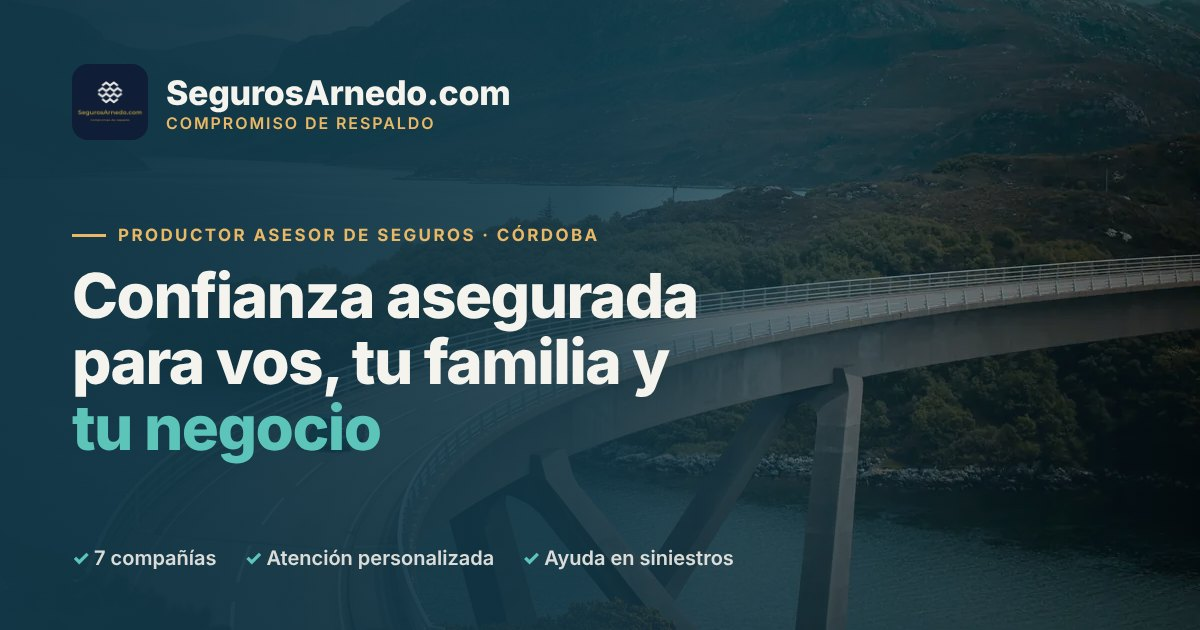
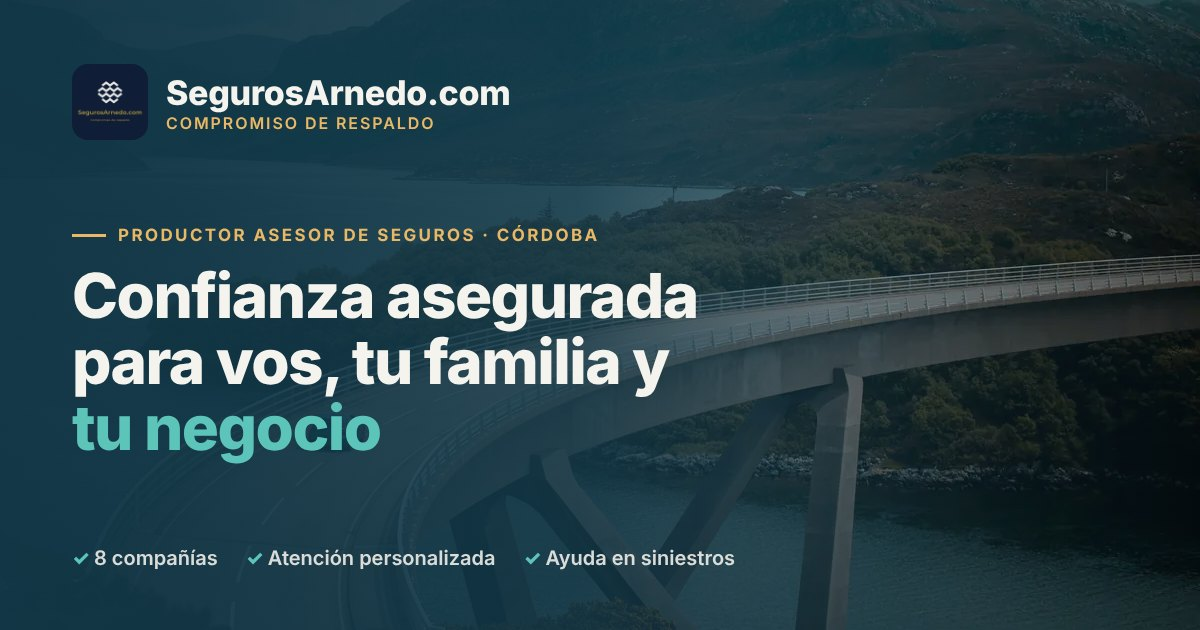
Compañías: se suma Premiar S.A. Compañía de Seguros
- Inicio: logo en la grilla de compañías (8 en total) y textos «8 compañías» / «8 aseguradoras».
- Compañías: ficha de Premiar (especialista en caución) con enlace a premiar.com.ar.
- Organización de Productores: Premiar en la lista para elegir y en la pregunta frecuente.
- llms.txt e imagen para compartir actualizadas.
- Logo provisorio con el nombre (reemplazar por el oficial cuando esté disponible).

Claude-Session: https://claude.ai/code/session_01MLrFoQmDidckPCewxF1xp5

Changed region(s): [[0.2158, 0.8746, 0.6167, 0.9048], [0.0617, 0.8746, 0.185, 0.9048]]

diff --git a/pages/organizacion-de-productores.html b/pages/organizacion-de-productores.html
@@ -34,7 +34,7 @@
   <script>document.documentElement.classList.add("js")</script>
   <script type="application/ld+json">{"@context": "https://schema.org", "@type": "InsuranceAgency", "@id": "https://segurosarnedo.com/#agencia", "name": "SegurosArnedo.com", "alternateName": ["Seguros Arnedo", "JMA Seguros"], "description": "Productor Asesor de Seguros Juan Manuel Arnedo. Asesoramiento y venta integral de seguros para personas y empresas en Córdoba, Argentina.", "url": "https://segurosarnedo.com/", "logo": "https://segurosarnedo.com/img/marca/logo-segurosarnedo-1200.png", "image": "https://segurosarnedo.com/img/web/og-image.jpg", "telephone": "+5493515161257", "email": "juanmanuelarnedo@gmail.com", "address": {"@type": "PostalAddress", "streetAddress": "Fernando Fader 4282", "addressLocality": "Córdoba", "addressRegion": "Córdoba", "addressCountry": "AR"}, "areaServed": [{"@type": "City", "name": "Córdoba"}, {"@type": "AdministrativeArea", "name": "Provincia de Córdoba"}, {"@type": "City", "name": "Villa Allende", "containedInPlace": {"@type": "AdministrativeArea", "name": "Provincia de Córdoba"}}, {"@type": "City", "name": "Mendiolaza", "containedInPlace": {"@type": "AdministrativeArea", "name": "Provincia de Córdoba"}}, {"@type": "City", "name": "Unquillo", "containedInPlace": {"@type": "AdministrativeArea", "name": "Provincia de Córdoba"}}, {"@type": "City", "name": "Río Ceballos", "containedInPlace": {"@type": "AdministrativeArea", "name": "Provincia de Córdoba"}}, {"@type": "City", "name": "La Calera", "containedInPlace": {"@type": "AdministrativeArea", "name": "Provincia de Córdoba"}}, {"@type": "City", "name": "Villa Carlos Paz", "containedInPlace": {"@type": "AdministrativeArea", "name": "Provincia de Córdoba"}}, {"@type": "City", "name": "La Falda", "containedInPlace": {"@type": "AdministrativeArea", "name": "Provincia de Córdoba"}}, {"@type": "Place", "name": "Cerro de las Rosas, Córdoba"}, {"@type": "Place", "name": "Urca, Córdoba"}, {"@type": "Place", "name": "Alberdi, Córdoba"}, {"@type": "Place", "name": "Centro, Córdoba"}], "sameAs": ["https://www.google.com/maps?cid=1705518970572699310", "https://www.instagram.com/segurosarnedo/"], "identifier": {"@type": "PropertyValue", "propertyID": "Matrícula SSN", "value": "86525"}, "openingHoursSpecification": [{"@type": "OpeningHoursSpecification", "dayOfWeek": ["Monday", "Tuesday", "Wednesday", "Thursday", "Friday"], "opens": "09:00", "closes": "18:00"}], "founder": {"@type": "Person", "name": "Juan Manuel Arnedo", "jobTitle": "Productor Asesor de Seguros", "identifier": "Matrícula SSN 86525"}, "knowsAbout": ["Seguro de auto", "Seguro de moto", "Seguro de hogar", "Integral de comercio", "Seguros para empresas", "ART – Aseguradora de Riesgos del Trabajo", "Seguro de caución", "Seguro de responsabilidad civil", "Vida y accidentes personales", "Seguro de retiro", "Asistencia al viajero"], "slogan": "Compromiso de respaldo", "knowsLanguage": "es-AR", "hasOfferCatalog": {"@type": "OfferCatalog", "name": "Seguros que ofrecemos", "itemListElement": [{"@type": "Offer", "itemOffered": {"@type": "Service", "name": "Seguro de auto", "description": "Responsabilidad civil, terceros completo y todo riesgo para autos y pick-ups.", "areaServed": "Provincia de Córdoba, Argentina"}}, {"@type": "Offer", "itemOffered": {"@type": "Service", "name": "Seguro de moto", "description": "Responsabilidad civil, robo e incendio para motos.", "areaServed": "Provincia de Córdoba, Argentina"}}, {"@type": "Offer", "itemOffered": {"@type": "Service", "name": "Seguro de hogar", "description": "Incendio, robo, cristales y responsabilidad civil para viviendas.", "areaServed": "Provincia de Córdoba, Argentina"}}, {"@type": "Offer", "itemOffered": {"@type": "Service", "name": "Integral de comercio", "description": "Cobertura para locales, mercadería y actividad comercial.", "areaServed": "Provincia de Córdoba, Argentina"}}, {"@type": "Offer", "itemOffered": {"@type": "Service", "name": "Seguros para empresas", "description": "Coberturas para pymes y empresas.", "areaServed": "Provincia de Córdoba, Argentina"}}, {"@type": "Offer", "itemOffered": {"@type": "Service", "name": "ART – Aseguradora de Riesgos del Trabajo", "description": "Cobertura de riesgos del trabajo con Federación Patronal, Prevención ART y La Segunda, entre otras.", "areaServed": "Provincia de Córdoba, Argentina"}}, {"@type": "Offer", "itemOffered": {"@type": "Service", "name": "Seguro de caución", "description": "Garantías de alquiler, contratos, obras y obligaciones, con Premiar y ACG.", "areaServed": "Provincia de Córdoba, Argentina"}}, {"@type": "Offer", "itemOffered": {"@type": "Service", "name": "Seguro de responsabilidad civil", "description": "Responsabilidad civil para personas, comercios, profesionales y empresas.", "areaServed": "Provincia de Córdoba, Argentina"}}, {"@type": "Offer", "itemOffered": {"@type": "Service", "name": "Vida y accidentes personales", "description": "Seguros de vida y de accidentes personales.", "areaServed": "Provincia de Córdoba, Argentina"}}, {"@type": "Offer", "itemOffered": {"@type": "Service", "name": "Seguro de retiro", "description": "Ahorro para el retiro.", "areaServed": "Provincia de Córdoba, Argentina"}}, {"@type": "Offer", "itemOffered": {"@type": "Service", "name": "Asistencia al viajero", "description": "Asistencia médica y ante imprevistos en viajes por el país y el exterior.", "areaServed": "Provincia de Córdoba, Argentina"}}]}}</script>
   <script type="application/ld+json">{"@context": "https://schema.org", "@type": "Service", "name": "Organización de productores asesores de seguros", "serviceType": "Organizador de productores de seguros", "description": "Acompañamiento a productores asesores de seguros, recién matriculados o en actividad, para abrir códigos con compañías aseguradoras y sumar compañías a su cartera, con el respaldo de P&T Brokers Asesores de Seguros.", "provider": {"@type": "InsuranceAgency", "@id": "https://segurosarnedo.com/#agencia", "name": "SegurosArnedo.com"}, "areaServed": {"@type": "Country", "name": "Argentina"}, "url": "https://segurosarnedo.com/pages/organizacion-de-productores.html"}</script>
-  <script type="application/ld+json">{"@context": "https://schema.org", "@type": "FAQPage", "mainEntity": [{"@type": "Question", "name": "¿Qué hace un organizador de productores de seguros?", "acceptedAnswer": {"@type": "Answer", "text": "Acompaña a productores asesores de seguros matriculados en la gestión para vincularse con compañías aseguradoras y abrir sus códigos de productor. En Seguros Arnedo lo hacemos con el respaldo y acompañamiento de P&T Brokers Asesores de Seguros."}}, {"@type": "Question", "name": "Me matriculé hace poco, ¿puedo incorporarme?", "acceptedAnswer": {"@type": "Answer", "text": "Sí. Te acompañamos en tus primeros pasos: revisamos tu situación, definimos con qué compañías empezar y gestionamos la apertura de tus códigos."}}, {"@type": "Question", "name": "Ya trabajo como productor, ¿puedo sumar aseguradoras?", "acceptedAnswer": {"@type": "Answer", "text": "Sí. Te ayudamos a gestionar nuevas vinculaciones para ampliar tu cartera y ofrecer más alternativas a tus asegurados, aunque ya trabajes con otras compañías u organizaciones."}}, {"@type": "Question", "name": "¿Con qué compañías se puede gestionar?", "acceptedAnswer": {"@type": "Answer", "text": "Hoy trabajamos con Zurich, La Segunda, Federación Patronal, San Cristóbal, Sancor Seguros, Galicia Seguros y La Mercantil Andina."}}, {"@type": "Question", "name": "¿La apertura del código está garantizada?", "acceptedAnswer": {"@type": "Answer", "text": "No. La aprobación de cada solicitud y la habilitación definitiva del código dependen de los requisitos, la documentación y los procedimientos de cada compañía aseguradora. Te acompañamos durante todo el proceso."}}, {"@type": "Question", "name": "¿Qué necesito para empezar?", "acceptedAnswer": {"@type": "Answer", "text": "Tu matrícula de Productor Asesor de Seguros de la Superintendencia de Seguros de la Nación y tus datos de contacto. La documentación que pida cada compañía te la indicamos durante la gestión."}}]}</script>
+  <script type="application/ld+json">{"@context": "https://schema.org", "@type": "FAQPage", "mainEntity": [{"@type": "Question", "name": "¿Qué hace un organizador de productores de seguros?", "acceptedAnswer": {"@type": "Answer", "text": "Acompaña a productores asesores de seguros matriculados en la gestión para vincularse con compañías aseguradoras y abrir sus códigos de productor. En Seguros Arnedo lo hacemos con el respaldo y acompañamiento de P&T Brokers Asesores de Seguros."}}, {"@type": "Question", "name": "Me matriculé hace poco, ¿puedo incorporarme?", "acceptedAnswer": {"@type": "Answer", "text": "Sí. Te acompañamos en tus primeros pasos: revisamos tu situación, definimos con qué compañías empezar y gestionamos la apertura de tus códigos."}}, {"@type": "Question", "name": "Ya trabajo como productor, ¿puedo sumar aseguradoras?", "acceptedAnswer": {"@type": "Answer", "text": "Sí. Te ayudamos a gestionar nuevas vinculaciones para ampliar tu cartera y ofrecer más alternativas a tus asegurados, aunque ya trabajes con otras compañías u organizaciones."}}, {"@type": "Question", "name": "¿Con qué compañías se puede gestionar?", "acceptedAnswer": {"@type": "Answer", "text": "Hoy trabajamos con Zurich, La Segunda, Federación Patronal, San Cristóbal, Sancor Seguros, Galicia Seguros, La Mercantil Andina y Premiar Seguros."}}, {"@type": "Question", "name": "¿La apertura del código está garantizada?", "acceptedAnswer": {"@type": "Answer", "text": "No. La aprobación de cada solicitud y la habilitación definitiva del código dependen de los requisitos, la documentación y los procedimientos de cada compañía aseguradora. Te acompañamos durante todo el proceso."}}, {"@type": "Question", "name": "¿Qué necesito para empezar?", "acceptedAnswer": {"@type": "Answer", "text": "Tu matrícula de Productor Asesor de Seguros de la Superintendencia de Seguros de la Nación y tus datos de contacto. La documentación que pida cada compañía te la indicamos durante la gestión."}}]}</script>
   <script type="application/ld+json">{"@context": "https://schema.org", "@type": "BreadcrumbList", "itemListElement": [{"@type": "ListItem", "position": 1, "name": "Inicio", "item": "https://segurosarnedo.com/"}, {"@type": "ListItem", "position": 2, "name": "Organización de Productores", "item": "https://segurosarnedo.com/pages/organizacion-de-productores.html"}]}</script>
 </head>
 <body data-page="productores">
@@ -154,7 +154,7 @@
           </details>
           <details>
             <summary><span class="quick-icon"><svg class="icon" aria-hidden="true" focusable="false" stroke="currentColor" fill="none" stroke-width="2" viewBox="0 0 24 24" stroke-linecap="round" stroke-linejoin="round" xmlns="http://www.w3.org/2000/svg"><circle cx="12" cy="12" r="10"></circle><path d="M12 16v-4"></path><path d="M12 8h.01"></path></svg></span>¿Con qué compañías se puede gestionar?</summary>
-            <div class="accordion-body"><p>Hoy trabajamos con Zurich, La Segunda, Federación Patronal, San Cristóbal, Sancor Seguros, Galicia Seguros y La Mercantil Andina.</p></div>
+            <div class="accordion-body"><p>Hoy trabajamos con Zurich, La Segunda, Federación Patronal, San Cristóbal, Sancor Seguros, Galicia Seguros, La Mercantil Andina y Premiar Seguros.</p></div>
           </details>
           <details>
             <summary><span class="quick-icon"><svg class="icon" aria-hidden="true" focusable="false" stroke="currentColor" fill="none" stroke-width="2" viewBox="0 0 24 24" stroke-linecap="round" stroke-linejoin="round" xmlns="http://www.w3.org/2000/svg"><circle cx="12" cy="12" r="10"></circle><path d="M12 16v-4"></path><path d="M12 8h.01"></path></svg></span>¿La apertura del código está garantizada?</summary>

diff --git a/index.html b/index.html
@@ -79,7 +79,7 @@
             <a class="btn btn-light btn-lg" href="https://www.sancristobal.com.ar/pas/p-t-seguros-juan-manuel-arnedo" target="_blank" rel="noopener">Cotizá con San Cristóbal <svg class="icon" aria-hidden="true" focusable="false" stroke="currentColor" fill="none" stroke-width="2" viewBox="0 0 24 24" stroke-linecap="round" stroke-linejoin="round" xmlns="http://www.w3.org/2000/svg"><path d="M15 3h6v6"></path><path d="M10 14 21 3"></path><path d="M18 13v6a2 2 0 0 1-2 2H5a2 2 0 0 1-2-2V8a2 2 0 0 1 2-2h6"></path></svg><span class="visually-hidden"> (se abre en una pestaña nueva)</span></a>
           </div>
           <ul class="trust-list" role="list">
-            <li><svg class="icon" aria-hidden="true" focusable="false" stroke="currentColor" fill="none" stroke-width="2" viewBox="0 0 24 24" stroke-linecap="round" stroke-linejoin="round" xmlns="http://www.w3.org/2000/svg"><path d="M6 22V4a2 2 0 0 1 2-2h8a2 2 0 0 1 2 2v18Z"></path><path d="M6 12H4a2 2 0 0 0-2 2v6a2 2 0 0 0 2 2h2"></path><path d="M18 9h2a2 2 0 0 1 2 2v9a2 2 0 0 1-2 2h-2"></path><path d="M10 6h4"></path><path d="M10 10h4"></path><path d="M10 14h4"></path><path d="M10 18h4"></path></svg>7 compañías aseguradoras</li>
+            <li><svg class="icon" aria-hidden="true" focusable="false" stroke="currentColor" fill="none" stroke-width="2" viewBox="0 0 24 24" stroke-linecap="round" stroke-linejoin="round" xmlns="http://www.w3.org/2000/svg"><path d="M6 22V4a2 2 0 0 1 2-2h8a2 2 0 0 1 2 2v18Z"></path><path d="M6 12H4a2 2 0 0 0-2 2v6a2 2 0 0 0 2 2h2"></path><path d="M18 9h2a2 2 0 0 1 2 2v9a2 2 0 0 1-2 2h-2"></path><path d="M10 6h4"></path><path d="M10 10h4"></path><path d="M10 14h4"></path><path d="M10 18h4"></path></svg>8 compañías aseguradoras</li>
             <li><svg class="icon" aria-hidden="true" focusable="false" stroke="currentColor" fill="none" stroke-width="2" viewBox="0 0 24 24" stroke-linecap="round" stroke-linejoin="round" xmlns="http://www.w3.org/2000/svg"><circle cx="12" cy="8" r="5"></circle><path d="M20 21a8 8 0 0 0-16 0"></path></svg>Atención personalizada</li>
             <li><svg class="icon" aria-hidden="true" focusable="false" stroke="currentColor" fill="none" stroke-width="2" viewBox="0 0 24 24" stroke-linecap="round" stroke-linejoin="round" xmlns="http://www.w3.org/2000/svg"><path d="M20 13c0 5-3.5 7.5-7.66 8.95a1 1 0 0 1-.67-.01C7.5 20.5 4 18 4 13V6a1 1 0 0 1 1-1c2 0 4.5-1.2 6.24-2.72a1.17 1.17 0 0 1 1.52 0C14.51 3.81 17 5 19 5a1 1 0 0 1 1 1z"></path><path d="m9 12 2 2 4-4"></path></svg>Acompañamiento en siniestros</li>
           </ul>
@@ -244,7 +244,7 @@
           <ul class="feature-list" role="list">
             <li><svg class="icon" aria-hidden="true" focusable="false" stroke="currentColor" fill="none" stroke-width="2" viewBox="0 0 24 24" stroke-linecap="round" stroke-linejoin="round" xmlns="http://www.w3.org/2000/svg"><circle cx="12" cy="8" r="5"></circle><path d="M20 21a8 8 0 0 0-16 0"></path></svg><div><strong>Atención personalizada</strong><span>Hablás siempre con tu asesor, no con un call center.</span></div></li>
             <li><svg class="icon" aria-hidden="true" focusable="false" stroke="currentColor" fill="none" stroke-width="2" viewBox="0 0 24 24" stroke-linecap="round" stroke-linejoin="round" xmlns="http://www.w3.org/2000/svg"><path d="m11 17 2 2a1 1 0 1 0 3-3"></path><path d="m14 14 2.5 2.5a1 1 0 1 0 3-3l-3.88-3.88a3 3 0 0 0-4.24 0l-.88.88a1 1 0 1 1-3-3l2.81-2.81a5.79 5.79 0 0 1 7.06-.87l.47.28a2 2 0 0 0 1.42.25L21 4"></path><path d="m21 3 1 11h-2"></path><path d="M3 3 2 14l6.5 6.5a1 1 0 1 0 3-3"></path><path d="M3 4h8"></path></svg><div><strong>Asesoramiento integral</strong><span>Para personas, familias, comercios y empresas.</span></div></li>
-            <li><svg class="icon" aria-hidden="true" focusable="false" stroke="currentColor" fill="none" stroke-width="2" viewBox="0 0 24 24" stroke-linecap="round" stroke-linejoin="round" xmlns="http://www.w3.org/2000/svg"><path d="M6 22V4a2 2 0 0 1 2-2h8a2 2 0 0 1 2 2v18Z"></path><path d="M6 12H4a2 2 0 0 0-2 2v6a2 2 0 0 0 2 2h2"></path><path d="M18 9h2a2 2 0 0 1 2 2v9a2 2 0 0 1-2 2h-2"></path><path d="M10 6h4"></path><path d="M10 10h4"></path><path d="M10 14h4"></path><path d="M10 18h4"></path></svg><div><strong>Varias compañías</strong><span>Opciones de 7 aseguradoras para comparar.</span></div></li>
+            <li><svg class="icon" aria-hidden="true" focusable="false" stroke="currentColor" fill="none" stroke-width="2" viewBox="0 0 24 24" stroke-linecap="round" stroke-linejoin="round" xmlns="http://www.w3.org/2000/svg"><path d="M6 22V4a2 2 0 0 1 2-2h8a2 2 0 0 1 2 2v18Z"></path><path d="M6 12H4a2 2 0 0 0-2 2v6a2 2 0 0 0 2 2h2"></path><path d="M18 9h2a2 2 0 0 1 2 2v9a2 2 0 0 1-2 2h-2"></path><path d="M10 6h4"></path><path d="M10 10h4"></path><path d="M10 14h4"></path><path d="M10 18h4"></path></svg><div><strong>Varias compañías</strong><span>Opciones de 8 aseguradoras para comparar.</span></div></li>
             <li><svg class="icon" aria-hidden="true" focusable="false" stroke="currentColor" fill="none" stroke-width="2" viewBox="0 0 24 24" stroke-linecap="round" stroke-linejoin="round" xmlns="http://www.w3.org/2000/svg"><path d="M20 13c0 5-3.5 7.5-7.66 8.95a1 1 0 0 1-.67-.01C7.5 20.5 4 18 4 13V6a1 1 0 0 1 1-1c2 0 4.5-1.2 6.24-2.72a1.17 1.17 0 0 1 1.52 0C14.51 3.81 17 5 19 5a1 1 0 0 1 1 1z"></path><path d="m9 12 2 2 4-4"></path></svg><div><strong>Compromiso con el cliente</strong><span>Te orientamos también cuando tenés un siniestro.</span></div></li>
           </ul>
         </div>
@@ -280,6 +280,7 @@
           <li><a class="logo-tile" style="background-color:#be0165" href="./pages/companias.html#sancor" aria-label="Sancor Seguros"><img src="./img/web/logo-sancor.webp" alt="Logo de Sancor Seguros" width="360" height="270" loading="lazy" decoding="async"></a></li>
           <li><a class="logo-tile" style="background-color:#f2692a" href="./pages/companias.html#galicia" aria-label="Galicia Seguros"><img src="./img/web/logo-galicia.webp" alt="Logo de Galicia Seguros" width="360" height="270" loading="lazy" decoding="async"></a></li>
           <li><a class="logo-tile" style="background-color:#1e4f9e" href="./pages/companias.html#mercantil" aria-label="Mercantil Andina"><img src="./img/web/logo-mercantil.webp" alt="Logo de Mercantil Andina" width="360" height="270" loading="lazy" decoding="async"></a></li>
+          <li><a class="logo-tile" style="background-color:#ffffff" href="./pages/companias.html#premiar" aria-label="Premiar S.A. Compañía de Seguros"><img src="./img/web/logo-premiar.webp" alt="Premiar S.A. Compañía de Seguros" width="360" height="270" loading="lazy" decoding="async"></a></li>
         </ul>
         <div class="broker-strip reveal">
           <img src="./img/web/logo-pyt-brokers.webp" alt="" width="256" height="256" loading="lazy" decoding="async">

diff --git a/pages/companias.html b/pages/companias.html
@@ -4,7 +4,7 @@
   <meta charset="UTF-8">
   <meta name="viewport" content="width=device-width, initial-scale=1">
   <title>Aseguradoras con las que trabajamos | SegurosArnedo.com</title>
-  <meta name="description" content="Zurich, La Segunda, Federación Patronal, San Cristóbal, Sancor, Galicia y Mercantil Andina. Te ayudamos a elegir la mejor opción en Córdoba.">
+  <meta name="description" content="Zurich, La Segunda, Federación Patronal, San Cristóbal, Sancor, Galicia, Mercantil Andina y Premiar. Te ayudamos a elegir la mejor opción en Córdoba.">
   <meta name="author" content="SegurosArnedo.com · Juan Manuel Arnedo">
   <meta name="robots" content="index, follow">
   <meta name="theme-color" content="#ffffff">
@@ -13,7 +13,7 @@
   <meta property="og:locale" content="es_AR">
   <meta property="og:site_name" content="SegurosArnedo.com">
   <meta property="og:title" content="Aseguradoras con las que trabajamos | SegurosArnedo.com">
-  <meta property="og:description" content="Zurich, La Segunda, Federación Patronal, San Cristóbal, Sancor, Galicia y Mercantil Andina. Te ayudamos a elegir la mejor opción en Córdoba.">
+  <meta property="og:description" content="Zurich, La Segunda, Federación Patronal, San Cristóbal, Sancor, Galicia, Mercantil Andina y Premiar. Te ayudamos a elegir la mejor opción en Córdoba.">
   <meta property="og:url" content="https://segurosarnedo.com/pages/companias.html">
   <meta property="og:image" content="https://segurosarnedo.com/img/web/og-image.jpg">
   <meta property="og:image:width" content="1200">
@@ -21,7 +21,7 @@
   <meta property="og:image:alt" content="SegurosArnedo.com, Productor Asesor de Seguros en Córdoba">
   <meta name="twitter:card" content="summary_large_image">
   <meta name="twitter:title" content="Aseguradoras con las que trabajamos | SegurosArnedo.com">
-  <meta name="twitter:description" content="Zurich, La Segunda, Federación Patronal, San Cristóbal, Sancor, Galicia y Mercantil Andina. Te ayudamos a elegir la mejor opción en Córdoba.">
+  <meta name="twitter:description" content="Zurich, La Segunda, Federación Patronal, San Cristóbal, Sancor, Galicia, Mercantil Andina y Premiar. Te ayudamos a elegir la mejor opción en Córdoba.">
   <meta name="twitter:image" content="https://segurosarnedo.com/img/web/og-image.jpg">
   <link rel="icon" href="../img/web/favicon-32.png" type="image/png" sizes="32x32">
   <link rel="icon" href="../img/asegurar.ico" sizes="any">
@@ -172,6 +172,20 @@
               <div class="company-links">
                 <a class="link-arrow" href="https://www.mercantilandina.com.ar/" target="_blank" rel="noopener">Sitio oficial <svg class="icon" aria-hidden="true" focusable="false" stroke="currentColor" fill="none" stroke-width="2" viewBox="0 0 24 24" stroke-linecap="round" stroke-linejoin="round" xmlns="http://www.w3.org/2000/svg"><path d="M15 3h6v6"></path><path d="M10 14 21 3"></path><path d="M18 13v6a2 2 0 0 1-2 2H5a2 2 0 0 1-2-2V8a2 2 0 0 1 2-2h6"></path></svg></a>
                 <a class="link-arrow" href="./siniestros.html#asistencia-mercantil">Asistencia 24 h <svg class="icon" aria-hidden="true" focusable="false" stroke="currentColor" fill="none" stroke-width="2" viewBox="0 0 24 24" stroke-linecap="round" stroke-linejoin="round" xmlns="http://www.w3.org/2000/svg"><path d="M5 12h14"></path><path d="m12 5 7 7-7 7"></path></svg></a>
+              </div>
+            </div>
+          </article>
+        </li>
+        <li class="reveal" id="premiar">
+          <article class="company-card">
+            <img class="company-logo" style="background-color:#ffffff" src="../img/web/logo-premiar.webp" alt="Premiar S.A. Compañía de Seguros" width="152" height="114" loading="lazy" decoding="async">
+            <div>
+              <h2>Premiar Seguros</h2>
+              <ul class="company-facts" role="list"><li>Premiar S.A. Compañía de Seguros</li><li>Especialista en garantías</li></ul>
+              <p>Compañía especializada en seguros de caución, con la que gestionamos garantías de alquiler, contractuales, comerciales, judiciales y aduaneras.</p>
+              <div class="company-links">
+                <a class="link-arrow" href="https://premiar.com.ar/" target="_blank" rel="noopener">Sitio oficial <svg class="icon" aria-hidden="true" focusable="false" stroke="currentColor" fill="none" stroke-width="2" viewBox="0 0 24 24" stroke-linecap="round" stroke-linejoin="round" xmlns="http://www.w3.org/2000/svg"><path d="M15 3h6v6"></path><path d="M10 14 21 3"></path><path d="M18 13v6a2 2 0 0 1-2 2H5a2 2 0 0 1-2-2V8a2 2 0 0 1 2-2h6"></path></svg></a>
+                <a class="link-arrow" href="./seguro-de-caucion-cordoba.html">Seguro de caución <svg class="icon" aria-hidden="true" focusable="false" stroke="currentColor" fill="none" stroke-width="2" viewBox="0 0 24 24" stroke-linecap="round" stroke-linejoin="round" xmlns="http://www.w3.org/2000/svg"><path d="M5 12h14"></path><path d="m12 5 7 7-7 7"></path></svg></a>
               </div>
             </div>
           </article>

diff --git a/css/style.css b/css/style.css
@@ -4278,6 +4278,10 @@ body:not(.ad-body):not(.fx-body) .site-header.is-open {
 }
 
 /* ---------- Compañías ---------- */
+.logo-grid {
+  grid-template-columns: repeat(8, minmax(0, 1fr));
+}
+
 .logo-tile {
   border: 0;
   border-radius: 14px;
@@ -4763,6 +4767,12 @@ a.channel-card:hover {
   }
 }
 
+@media (max-width: 1100px) {
+  .logo-grid {
+    grid-template-columns: repeat(4, minmax(0, 1fr));
+  }
+}
+
 @media (max-width: 960px) {
   .emergency {
     grid-template-columns: 1fr;
@@ -4770,6 +4780,12 @@ a.channel-card:hover {
 
   .hero::before {
     background: linear-gradient(180deg, rgba(18, 55, 71, 0.8) 0%, rgba(18, 55, 71, 0.9) 60%, rgba(18, 55, 71, 0.94) 100%);
+  }
+}
+
+@media (max-width: 720px) {
+  .logo-grid {
+    grid-template-columns: repeat(4, minmax(0, 1fr));
   }
 }
 

diff --git a/scss/componentes/_rediseno.scss b/scss/componentes/_rediseno.scss
@@ -496,6 +496,10 @@ body:not(.ad-body):not(.fx-body) .site-header.is-open {
 }
 
 /* ---------- Compañías ---------- */
+.logo-grid {
+  grid-template-columns: repeat(8, minmax(0, 1fr));
+}
+
 .logo-tile {
   border: 0;
   border-radius: 14px;
@@ -983,6 +987,12 @@ a.channel-card:hover {
   }
 }
 
+@media (max-width: 1100px) {
+  .logo-grid {
+    grid-template-columns: repeat(4, minmax(0, 1fr));
+  }
+}
+
 @media (max-width: 960px) {
   .emergency {
     grid-template-columns: 1fr;
@@ -990,6 +1000,12 @@ a.channel-card:hover {
 
   .hero::before {
     background: linear-gradient(180deg, rgba(18, 55, 71, 0.8) 0%, rgba(18, 55, 71, 0.9) 60%, rgba(18, 55, 71, 0.94) 100%);
+  }
+}
+
+@media (max-width: 720px) {
+  .logo-grid {
+    grid-template-columns: repeat(4, minmax(0, 1fr));
   }
 }
 

diff --git a/js/productores.js b/js/productores.js
@@ -25,7 +25,7 @@
     { id: "zurich", nombre: "Zurich" }, { id: "lasegunda", nombre: "La Segunda" },
     { id: "federacion", nombre: "Federación Patronal" }, { id: "sancristobal", nombre: "San Cristóbal" },
     { id: "sancor", nombre: "Sancor Seguros" }, { id: "galicia", nombre: "Galicia Seguros" },
-    { id: "mercantil", nombre: "La Mercantil Andina" }
+    { id: "mercantil", nombre: "La Mercantil Andina" }, { id: "premiar", nombre: "Premiar Seguros" }
   ];
   var LEADS = {
     nuevo: "Completá tus datos y te contactamos para acompañarte en la apertura de tus primeros códigos.",
